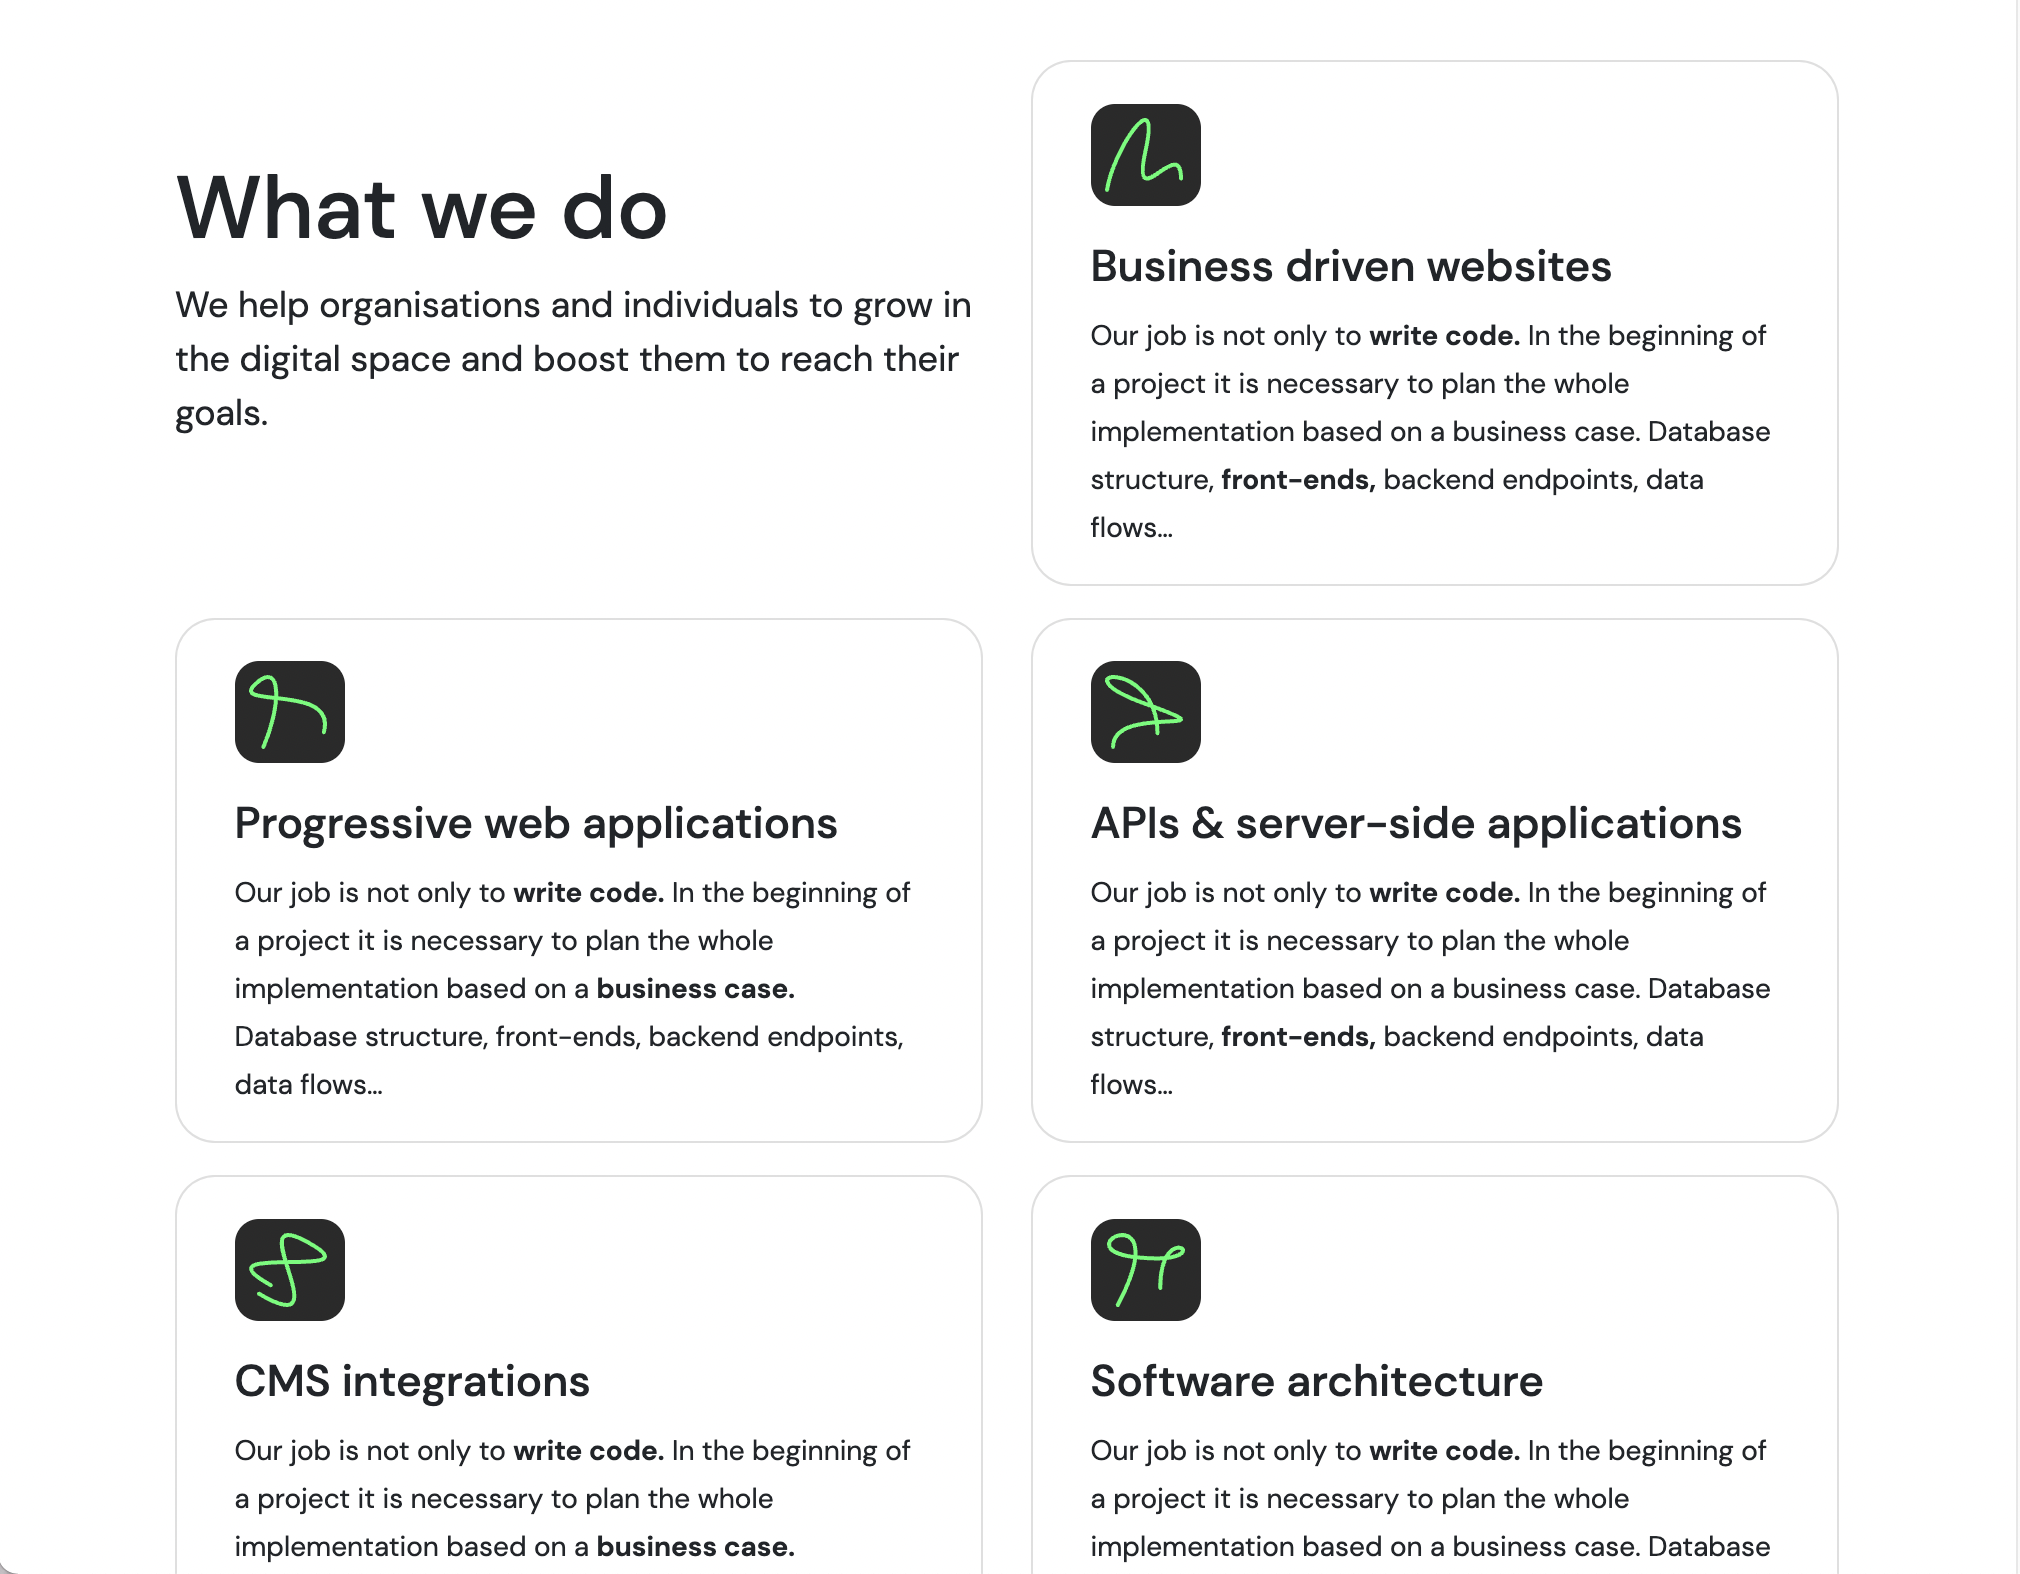
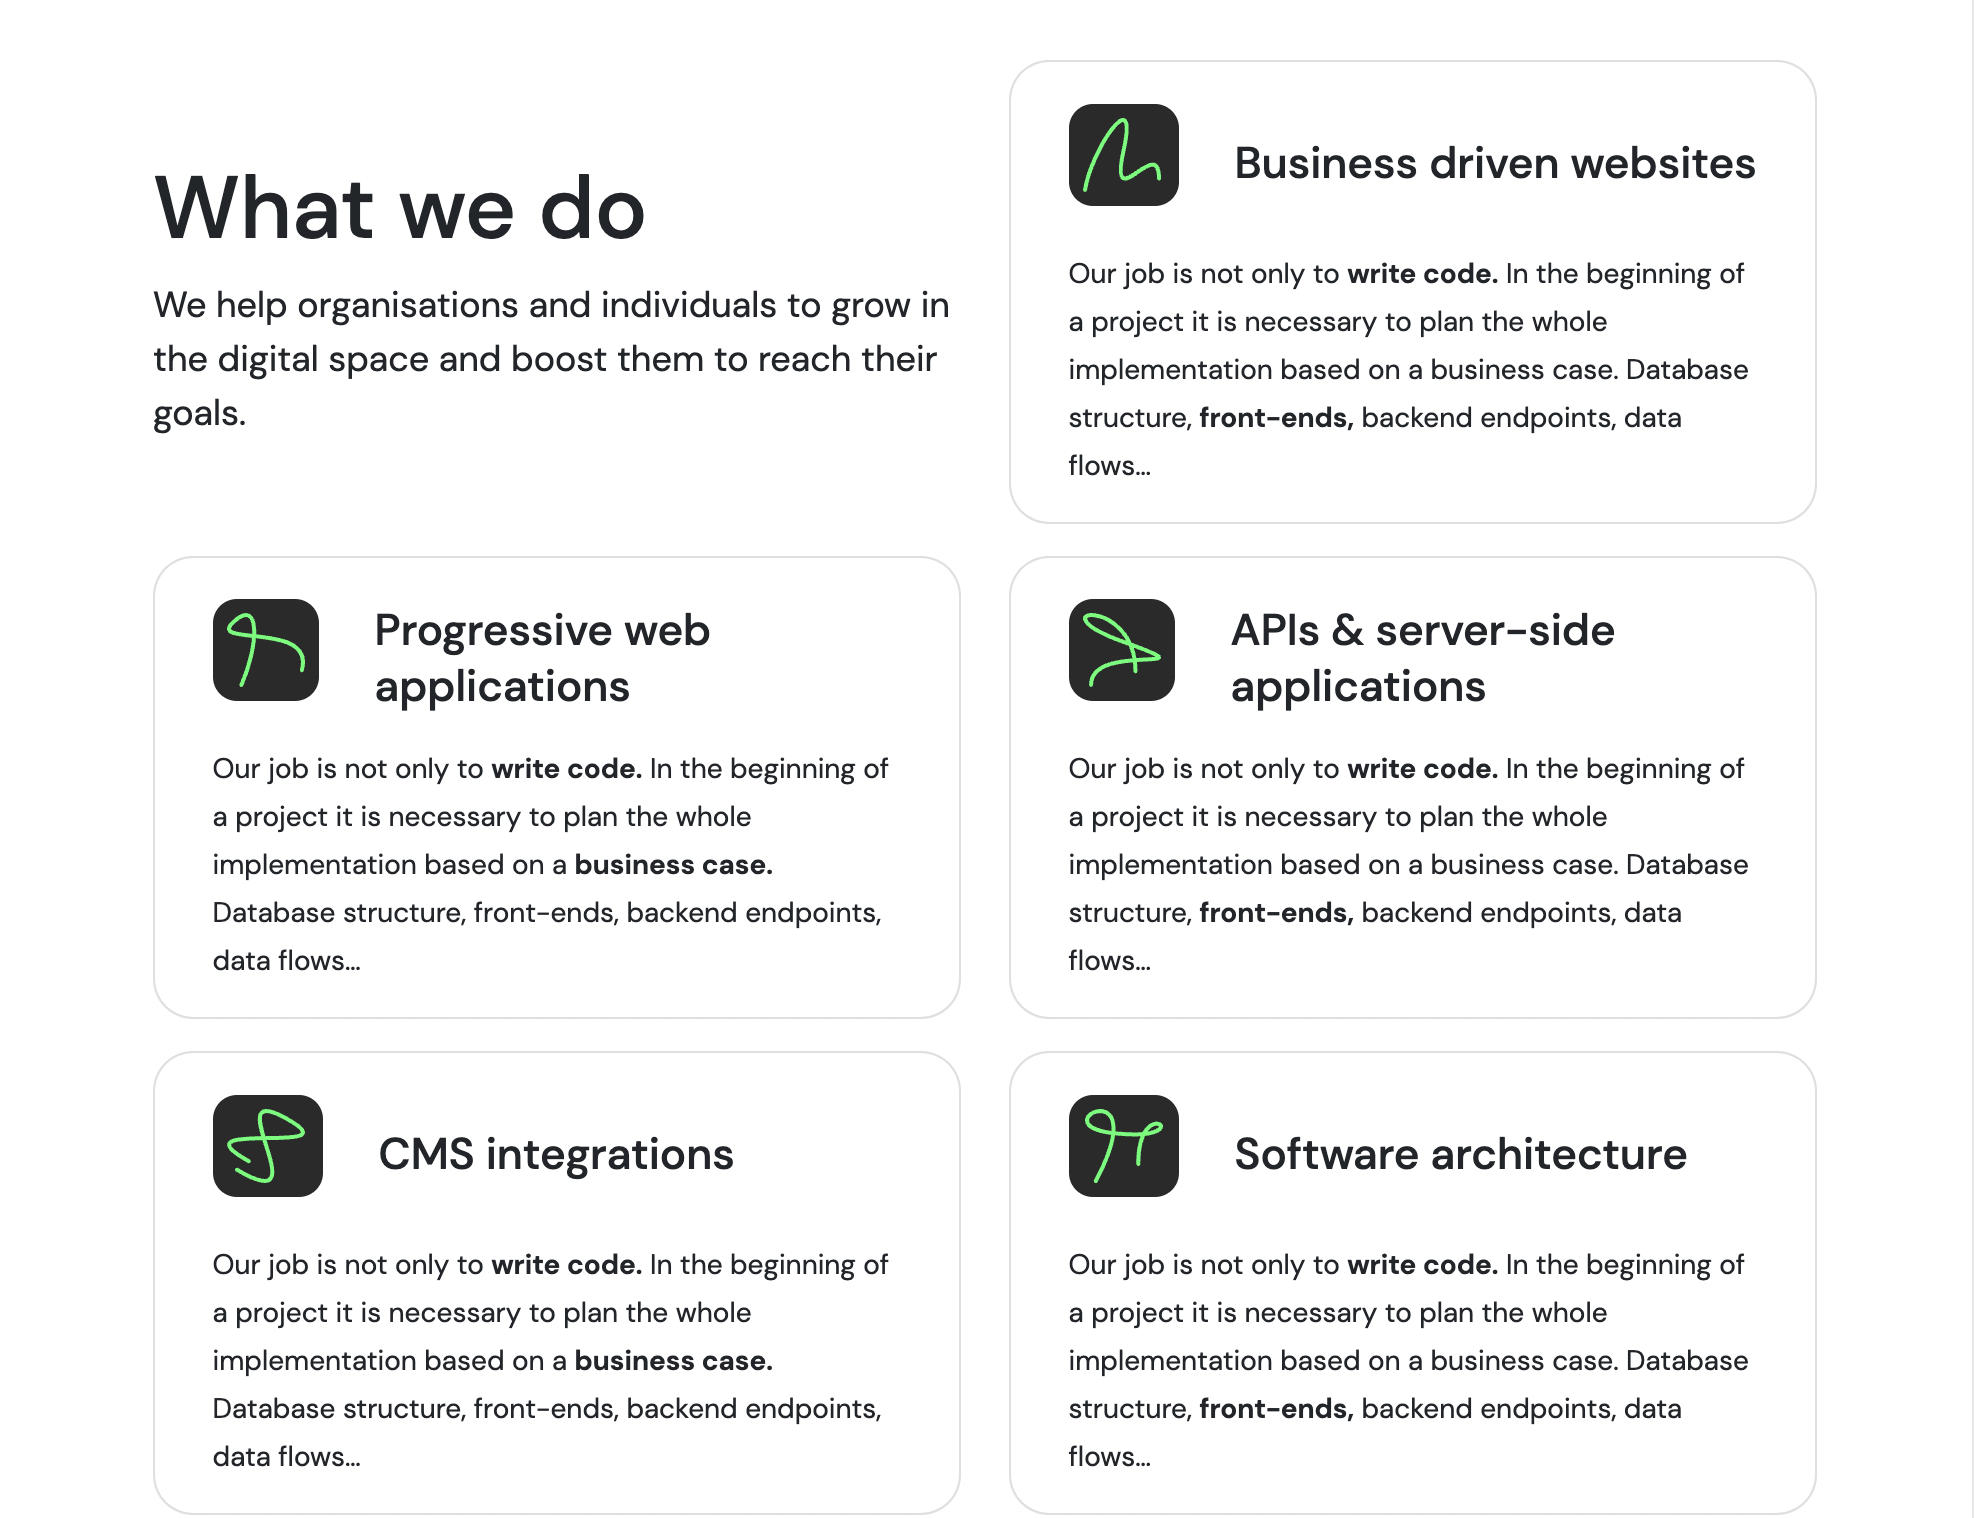
Space issue resolve

diff --git a/css/style.css b/css/style.css
@@ -96,4 +96,14 @@ span {
   .cms {
     display: inline;
   }
+
+  .card-header {
+    display: flex;
+    align-items: center;
+    margin-bottom: 5px !important;
+  }
+
+  .icon-content {
+    margin-right: 28px;
+  }
 }
